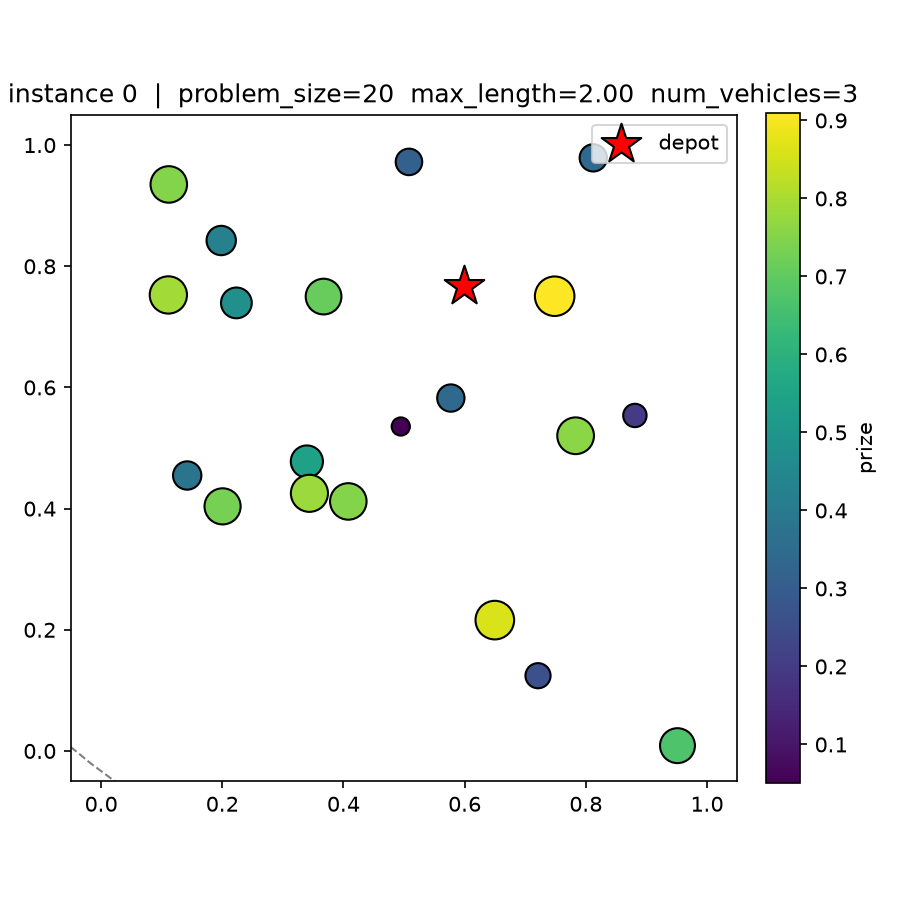
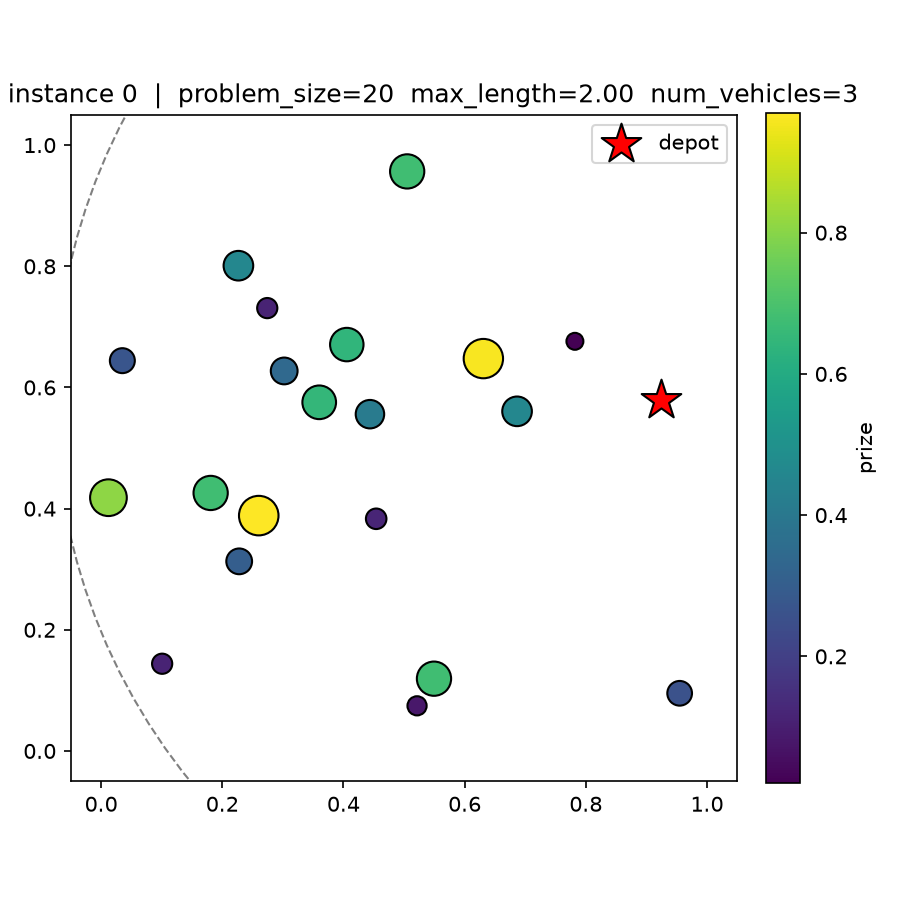
constant vehicle count

diff --git a/NEW_py_ver/TOP/TOPProblemDef.py b/NEW_py_ver/TOP/TOPProblemDef.py
@@ -21,7 +21,7 @@ def get_random_problems(batch_size, problem_size):
 
     # uniform distribution for vehicle count between 2 and 4
     # shape: (batch, 1)
-    vehicle_count = torch.randint(2, 5, size=(batch_size, 1))
+    vehicle_count = torch.full((batch_size, 1), 3) #randint(2, 5, size=(batch_size, 1))
 
     return depot_xy, node_xy, node_prize, max_length, vehicle_count
 